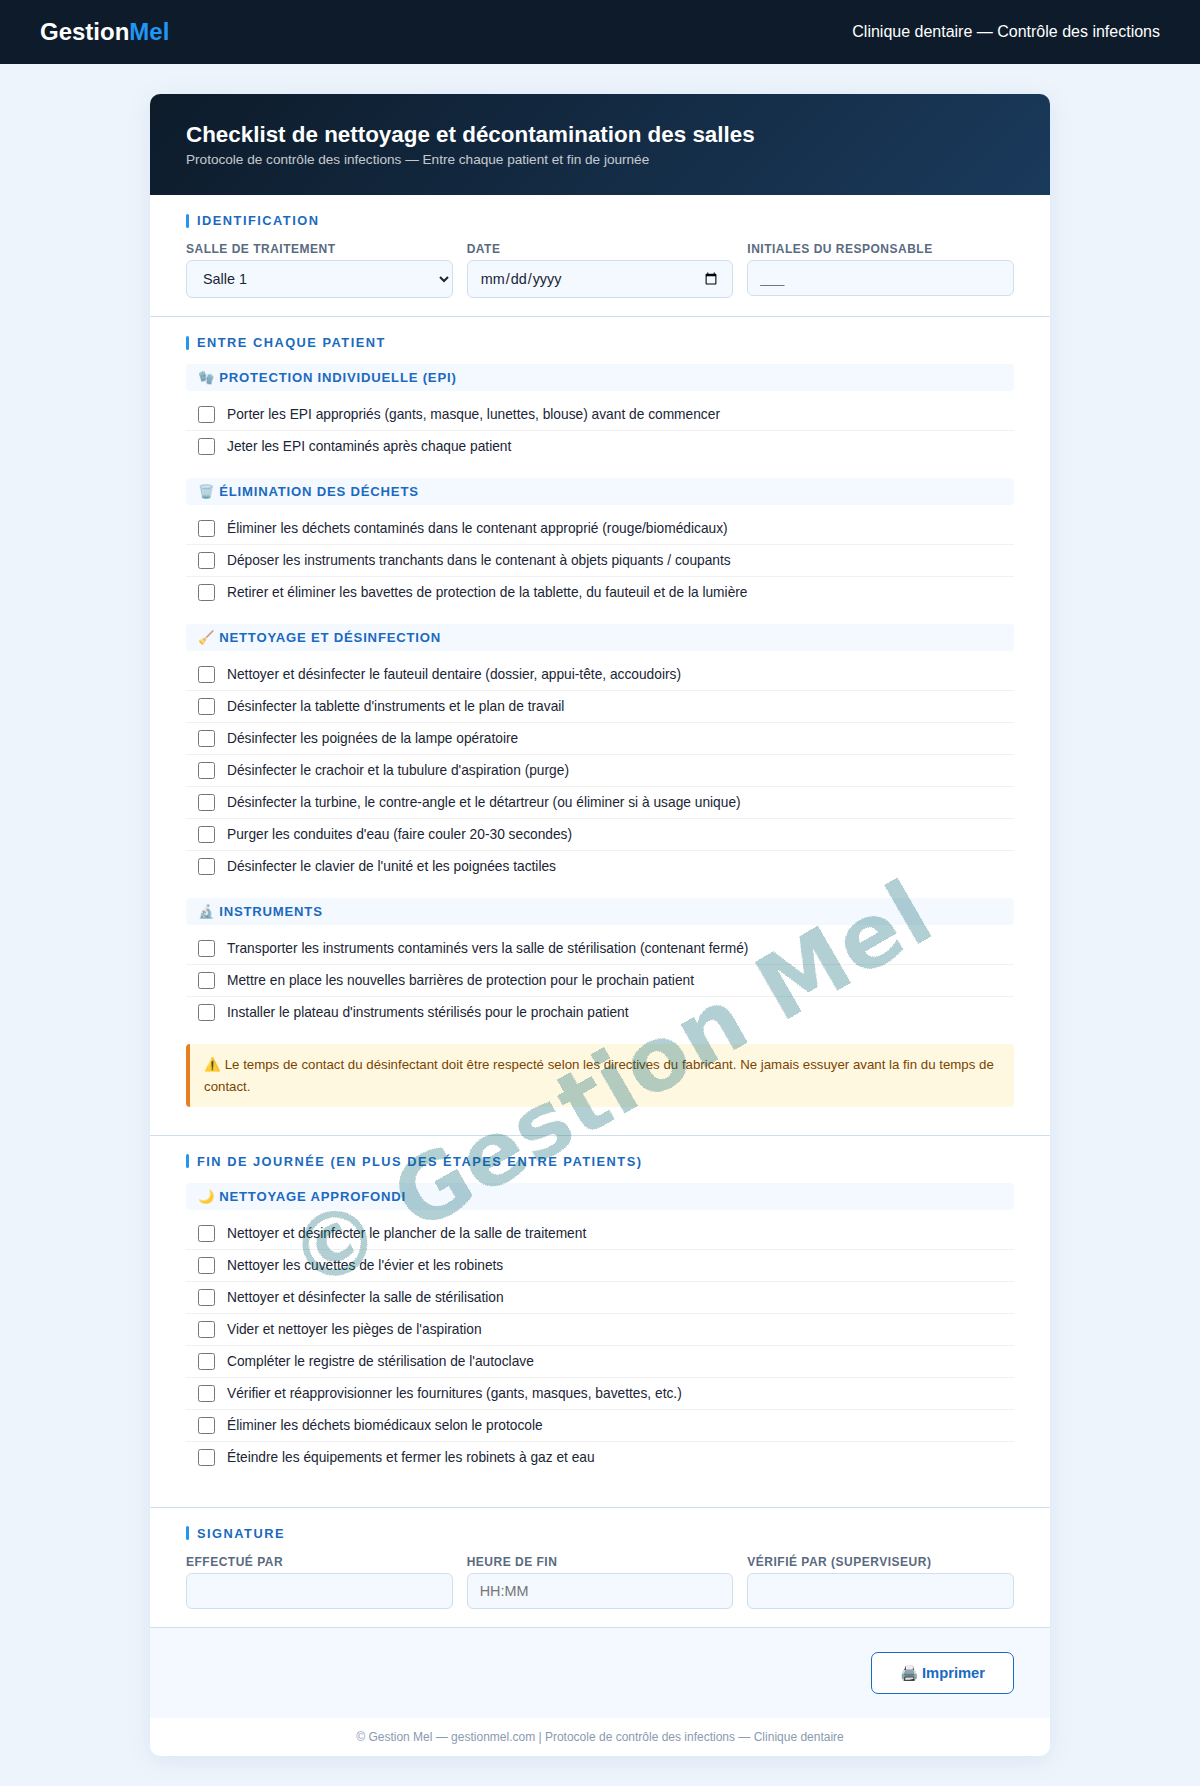
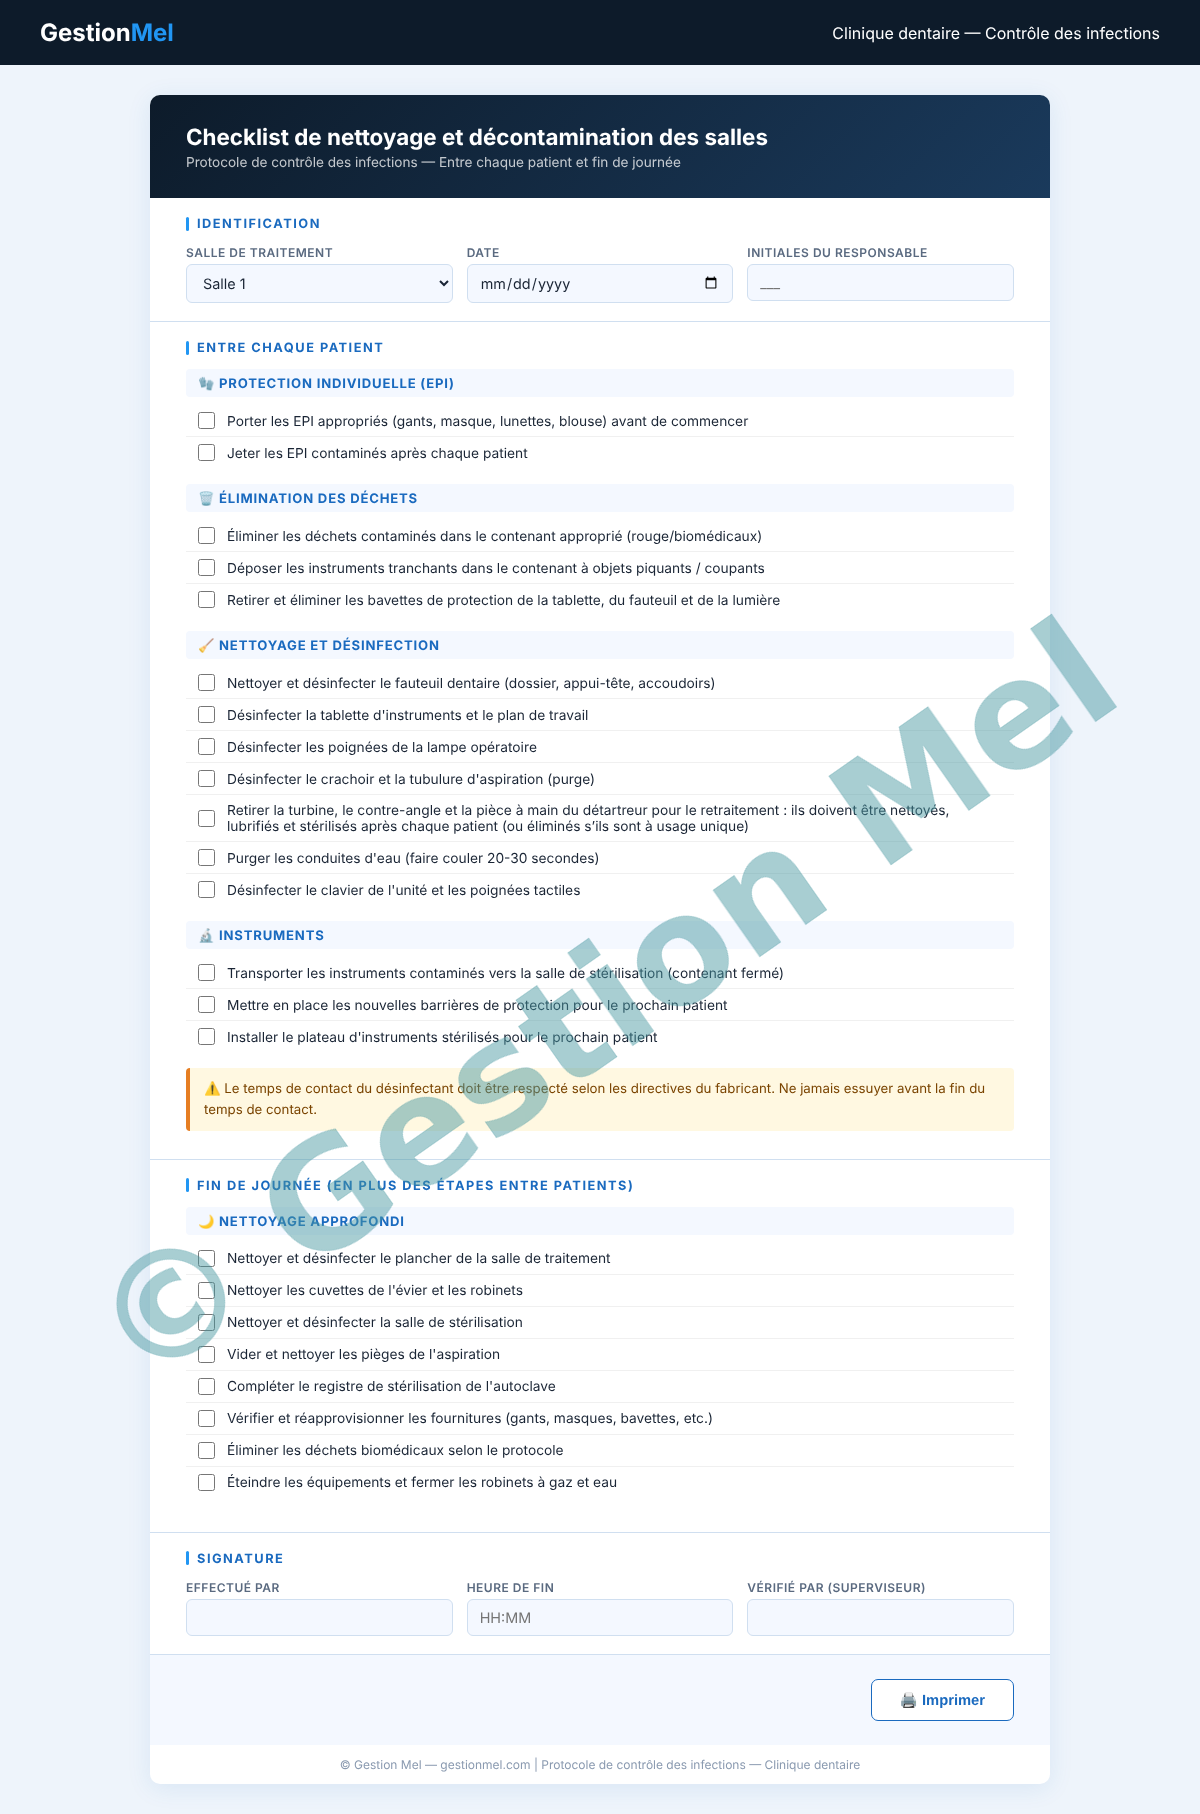
Pièces à main : stérilisation après chaque patient
Checklist de nettoyage : la turbine, le contre-angle et le détartreur vont au
retraitement au lieu d'être désinfectés. Ajout de l'étape dans la checklist de
stérilisation. Image du produit mise à jour.

Claude-Session: https://claude.ai/code/session_01VwVE9UVcjJxgAsPi28kuNj

diff --git a/checklist_nettoyage_salles.html b/checklist_nettoyage_salles.html
@@ -31,7 +31,7 @@
       <div class="check-row"><input type="checkbox"><span>Désinfecter la tablette d'instruments et le plan de travail</span></div>
       <div class="check-row"><input type="checkbox"><span>Désinfecter les poignées de la lampe opératoire</span></div>
       <div class="check-row"><input type="checkbox"><span>Désinfecter le crachoir et la tubulure d'aspiration (purge)</span></div>
-      <div class="check-row"><input type="checkbox"><span>Désinfecter la turbine, le contre-angle et le détartreur (ou éliminer si à usage unique)</span></div>
+      <div class="check-row"><input type="checkbox"><span>Retirer la turbine, le contre-angle et la pièce à main du détartreur pour le retraitement : ils doivent être nettoyés, lubrifiés et stérilisés après chaque patient (ou éliminés s’ils sont à usage unique)</span></div>
       <div class="check-row"><input type="checkbox"><span>Purger les conduites d'eau (faire couler 20-30 secondes)</span></div>
       <div class="check-row"><input type="checkbox"><span>Désinfecter le clavier de l'unité et les poignées tactiles</span></div>
     </div>

diff --git a/checklist-sterilisation-audit.html b/checklist-sterilisation-audit.html
@@ -173,6 +173,7 @@ const QUOT = [
   {id:'e1', x:'DM séchés avec un linge propre, doux et non pelucheux'},
   {id:'e2', x:'DM inspectés : propres, intacts et fonctionnels'},
   {id:'e3', x:'DM à charnières ou à pièces mobiles lubrifiés avec un lubrifiant compatible'},
+  {id:'e3b', x:'Pièces à main (turbine, contre-angle, détartreur) nettoyées, lubrifiées et emballées pour être stérilisées après chaque patient'},
   {id:'e4', x:'Indicateur chimique de type 1 à l’extérieur et de type 4 à l’intérieur de chaque paquet'},
   {id:'e5', x:'Chaque paquet étiqueté : no du stérilisateur, no de la charge et date'},
   {id:'e6', x:'Aucun emballage à usage unique réutilisé'} ]},
